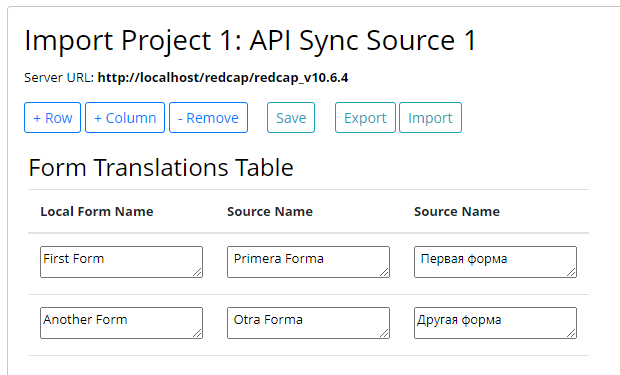
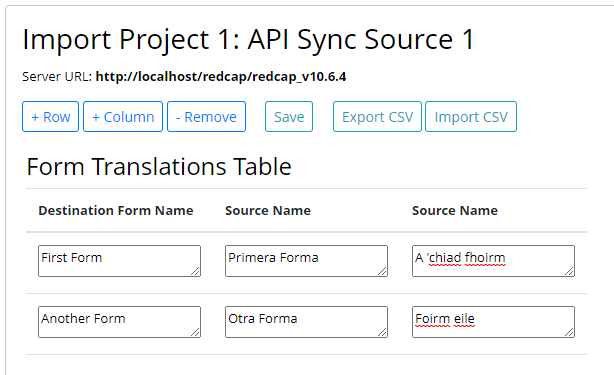
updates README, fixes trim / case issues

Changed region(s): [[0.0, 0.0, 1.0, 1.0]]

diff --git a/js/config_translations.js b/js/config_translations.js
@@ -187,7 +187,7 @@ $(document).ready(function() {
 		
 		$("input#project-api-key").val(proj_api_key);
 		$("input#server-url").val(server_url);
-		$("input#server-type").val(server_type);
+		$("input#server-type").val(server_type.toLowerCase());
 		$("input#translations-type").val(translations_type);
 		
 		$("#import-translations").modal("show");

diff --git a/config_translations.php b/config_translations.php
@@ -65,6 +65,7 @@ function printTranslationsTable($translations = [], $type, $server_type) {
 					echo "<tr class='border-bottom'>";
 					for ($col_index = 1; $col_index <= $column_count; $col_index++) {
 						$name = trim($row[$col_index-1]);
+						$name = str_replace("\\", "", $name);
 						echo "<td><textarea>$name</textarea></td>";
 					}
 					echo "</tr>";
@@ -111,6 +112,7 @@ if (empty($import_servers) and empty($export_servers)) {
 		<p>For each table, the first column should hold the name of forms and events that exist on this project.</p>
 		<p>For import tables, columns past the first column should hold the names of forms or events that you want the API Sync module to translate upon import. Each value will be translated to the name in the first column.</p>
 		<p>For export tables, the API Sync module converts this project's form and event names in the first column to the value in the second column upon export.</p>
+		<p>Click table cells to select rows. Click column names to select columns. Selected rows or columns can be removed.</p>
 	</div>
 	<?php
 }
@@ -118,7 +120,7 @@ if (empty($import_servers) and empty($export_servers)) {
 foreach ($import_servers as $server_i => $server) {
 	$url = $server['redcap-url'];
 	foreach ($server['projects'] as $project_i => $project) {
-		$project['project-name'] = @$module->getRemoteProjectTitle($url, $project['api-key']);
+		$project['project-name'] = $module->getRemoteProjectTitle($url, $project['api-key']);
 		$project['url'] = $url;
 		$project['server-index'] = $server_i + 1;
 		$project['server-type'] = 'import';

diff --git a/APISyncExternalModule.php b/APISyncExternalModule.php
@@ -1118,6 +1118,11 @@ class APISyncExternalModule extends \ExternalModules\AbstractExternalModule{
 		$translation_matrix = [];
 		foreach(preg_split("/((\r?\n)|(\r\n?))/", $translations) as $line){
 			$translation_matrix[] = str_getcsv(db_escape($line));
+			foreach($translation_matrix as &$arr) {
+				foreach ($arr as $i => $name) {
+					$arr[$i] = trim($name);
+				}
+			}
 		}
 		
 		// save translations to appropriate setting key/index
@@ -1220,17 +1225,16 @@ class APISyncExternalModule extends \ExternalModules\AbstractExternalModule{
 		$output = curl_exec($ch);
 		curl_close($ch);
 		
-		if (empty($output)) {
-			throw new \Exception("REDCap API response is empty when trying to get remote project title.");
-		}
 		try {
 			$obj = json_decode($output);
 		}
 		catch (\Exception $e) {
-			throw new \Exception("Couldn't convert REDCap API JSON response to object.");
+			// bad json
 		}
-		
-		return $obj->project_title;
+		if (!empty($obj->project_title)) {
+			return $obj->project_title;
+		}
+		return "";
 	}
 
 }

diff --git a/README.md b/README.md
@@ -1,3 +1,5 @@
+
+
 # API Sync
 
 Automates exporting/importing to/from remote REDCap servers via the API.  The Data Dictionaries for the local and remote projects are expected to be either identical or compatible.  This module could easily be expanded to support additional scenarios (like automatically syncing the data dictionary as well).
@@ -13,7 +15,7 @@ The first column of a configured form/event table should contain the names of th
 
 The following columns should contain form/event names used in source projects. When importing data, the module tries to find form/event names listed in the source columns. If a match is found, the name in the data is translated to the name in the first column.
 
-An example project configured with the following table would convert the form names "Primera Forma" or "Первая форма" to "First Form" and "Otra Form" or "Другая форма" to "Another Form"
+An example project configured with the following table would convert the form names "Primera Forma" or "A 'chiad Fhoirm" to "First Form" and "Otra Form" or "Foirm eile" to "Another Form"
 
 ![Configuring import translations](/readme/import_forms.PNG)
 
@@ -23,6 +25,20 @@ Export tables are similar to import tables except they can contain only two colu
 
 For this reason, there is no '+ Column' button and columns cannot be removed.
 
-In the following example table, the module is configured to convert the 'First Form' form name to 'Their Form Name' before exporting data.
+In the following example table, the module is configured to convert the 'First Form' form name to 'Their Form Name' and 'Other Form' to 'Their Other Form' before exporting data.
 
 ![Configuring export translations](/readme/export_forms.PNG)
+### Note: Form and Event Names in REDCap
+REDCap forms and events have two names. A display name and a unique name. The unique name is usually not shown to users but it's how REDCap refers to forms and events internally. You may use either in the 'Configure Translations' tables -- the module can usually determine the correct unique name for a given display name.
+
+The module won't be able to determine the unique name in the following cases:
+
+ 1. The display name contains only non-Latin characters. 
+
+	In this case, REDCap will generate a unique form name using random characters. The module won't be able to guess the unique form name in this case.
+
+ 2. The remote instance of REDCap contains multiple forms/events with the same display name.
+
+	In this case, REDCap will append some random characters to make the unique name unique for that form/event.
+
+Using the display name in the above cases will cause imports/exports to fail. The workaround is to determine the unique names for the forms/events and use those instead. You can determine these unique names, for instance, by exporting the raw data as CSV and finding the names within the exported file.
